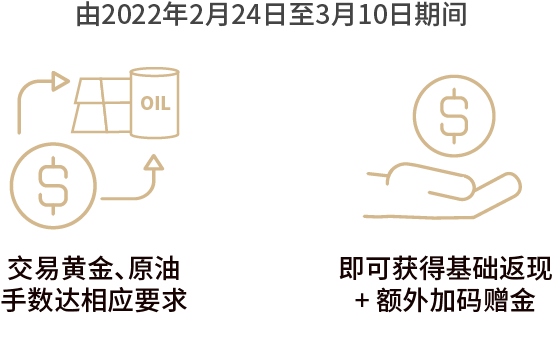
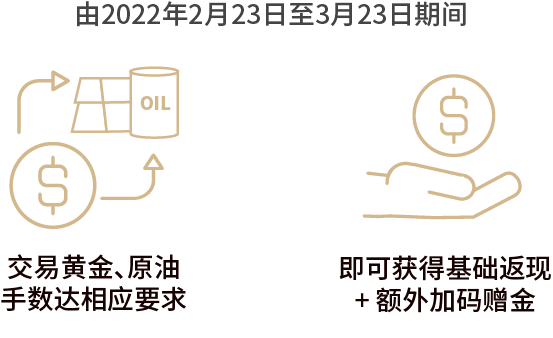
a
a

diff --git a/index.html b/index.html
@@ -68,7 +68,7 @@
             <div class='row'>
                 <h4>活动条款与细则</h4>
                 <ol>
-                    <li>活动日期： 2022年2月24日00:00至2022年3月24日23:59。</li>
+                    <li>活动日期： 2022年2月23日00:00至2022年3月23日23:59。</li>
                     <li>活动对象：所有亨达外汇客户。</li>
                     <li>活动内容：活动期间内，交易黄金、原油除原有每手基础返现外，平仓手数达到相应要求，即可获加码赠金。</li>
                     <li>每位客户最多获得黄金、原油加码赠金各一次。</li>
